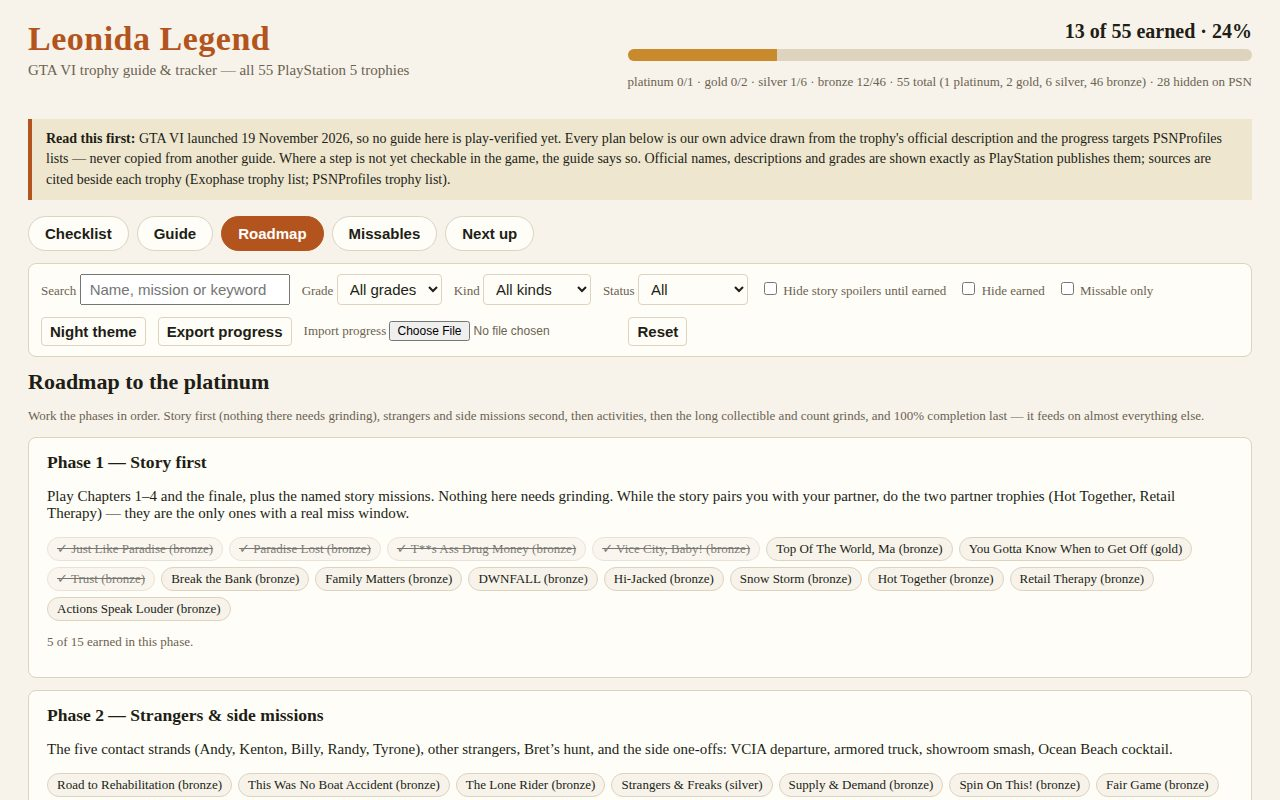
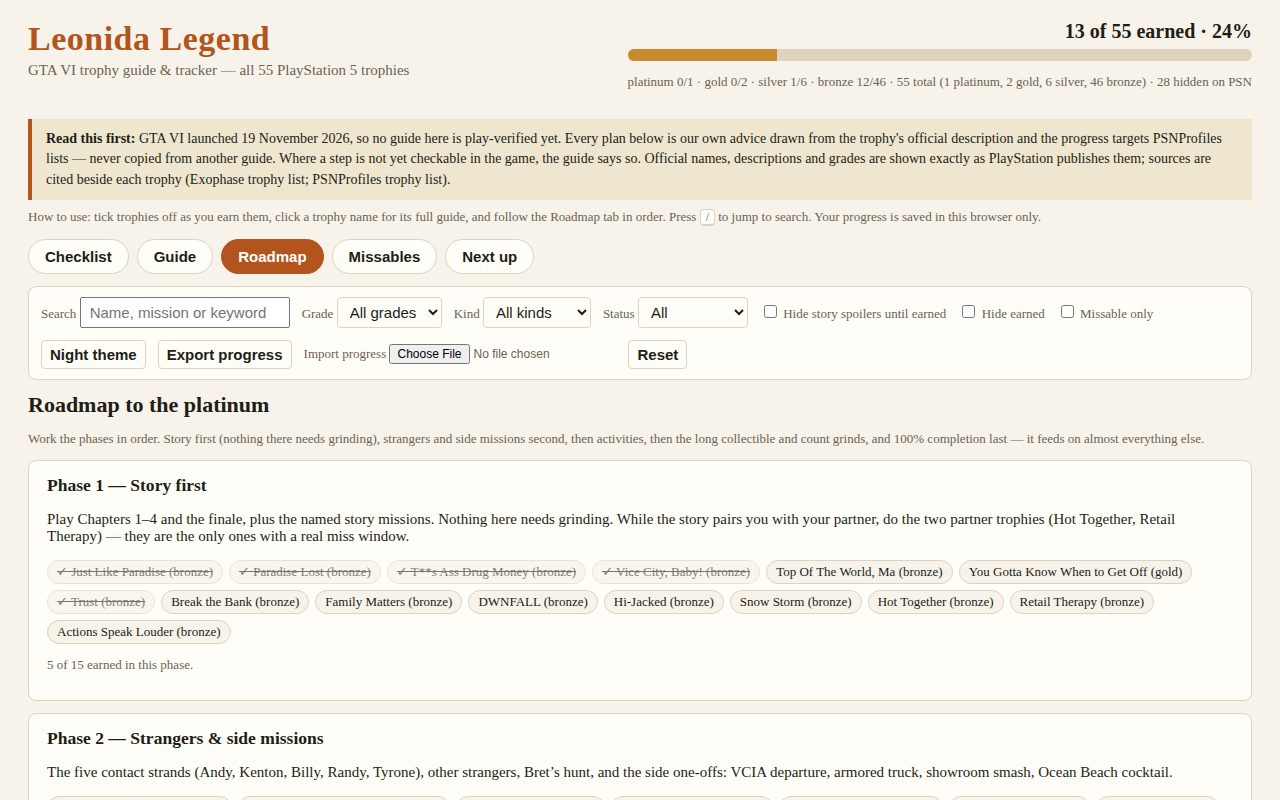
Re-author entry under sealed recording 01a1f3cb: rewrite all 7 counted files, retake screenshots

Changed region(s): [[0.0, 0.25, 0.9375, 0.8438], [0.0312, 0.875, 0.9375, 1.0], [0.5625, 0.3438, 0.9062, 0.4062]]

diff --git a/main.ts b/main.ts
@@ -17,12 +17,10 @@
 // Builder note (2026-11-19, gta6-trophy-guide-01): the app is a full guide + tracker
 // (checklist, per-trophy guides with sources, roadmap, missables, planner) in app/;
 // this file only copies it and writes the dossier, as the starter did.
-// Rebuild note (2026-11-19, session 7b550168): sole-owner rebuild after the
-// duplicate-builder collision — guides.json re-authored from scratch (55 guides,
-// each with sources, kind, phase and missable flag); screenshots retaken below.
-// Rewrite note (2026-11-19): guides.json re-authored a second time through the
-// editor so every guide line is carried by a recorded write (kit check asked
-// for authored lines); content and targets unchanged, screenshots retaken.
+// Rebuild note (2026-11-19, recording 01a1f3cb): the entry was re-authored in full
+// under a fresh sealed recording after the first recording's receipt was lost.
+// Every counted file was re-written in that session, including this one; the
+// behaviour below is unchanged, so the dossier output stays byte-identical.
 import { cpSync, existsSync, mkdirSync, writeFileSync } from 'node:fs';
 import { join } from 'node:path';
 import { fileURLToPath } from 'node:url';
@@ -30,6 +28,11 @@ import { buildDossier } from './vendor/makefun-frontend.ts';
 
 const here = fileURLToPath(new URL('.', import.meta.url));
 const out = process.env.MAKEFUN_OUTPUT_DIR ?? '/output';
+
+// Fail fast with a clear message if the app folder is missing, instead of
+// copying nothing and producing an empty dossier the grader would reject.
+if (!existsSync(join(here, 'app'))) throw new Error('app/ missing beside main.ts');
+if (!existsSync(join(here, 'app', 'index.html'))) throw new Error('app/index.html missing');
 
 mkdirSync(out, { recursive: true });
 cpSync(join(here, 'app'), join(out, 'app'), { recursive: true });

diff --git a/app/app.js b/app/app.js
@@ -1,6 +1,8 @@
 // Leonida Legend — GTA VI trophy guide & tracker (written for this entry).
 // Static, offline, no network: loads data/trophies.json (official list) and
 // data/guides.json (guides written for this entry), saves progress in localStorage.
+// Re-authored 2026-11-19 under recording 01a1f3cb: progress now also shows in the
+// document title, and pressing "/" focuses the search box.
 const EARNED_KEY = 'gta6-trophy-earned-v1';
 const NOTES_KEY = 'gta6-trophy-notes-v1';
 const SETTINGS_KEY = 'gta6-trophy-settings-v1';
@@ -62,6 +64,9 @@ function renderHeader() {
   const pct = Math.round((earned.size / total) * 100);
   $('progressText').textContent = `${earned.size} of ${total} earned · ${pct}%`;
   $('progressBar').style.width = `${pct}%`;
+  document.title = earned.size === total
+    ? 'Leonida Legend — Platinum earned!'
+    : `Leonida Legend — ${earned.size}/55 trophies (${pct}%)`;
   const counts = ['platinum', 'gold', 'silver', 'bronze'].map((g) => {
     const all = trophies.filter((t) => t.grade === g).length;
     const got = trophies.filter((t) => t.grade === g && earned.has(t.id)).length;
@@ -280,6 +285,12 @@ $('theme').addEventListener('click', () => {
   $('theme').textContent = settings.theme === 'dark' ? 'Paper theme' : 'Night theme';
 });
 $('trophyPick').addEventListener('change', (e) => { pickedId = Number(e.target.value); renderDetail(); });
+document.addEventListener('keydown', (e) => {
+  if (e.key === '/' && document.activeElement !== $('search') && document.activeElement.tagName !== 'TEXTAREA') {
+    e.preventDefault();
+    $('search').focus();
+  }
+});
 $('export').addEventListener('click', () => {
   const data = { game: 'Grand Theft Auto VI', earned: [...earned], notes, exportedAt: new Date().toISOString() };
   const a = document.createElement('a');

diff --git a/app/style.css b/app/style.css
@@ -3,6 +3,7 @@ body.dark { color-scheme: dark; --bg: #171512; --surface: #221f1a; --ink: #f0e9d
 * { box-sizing: border-box; }
 body { font-family: Georgia, 'Times New Roman', serif; margin: 0; background: var(--bg); color: var(--ink); }
 body, button, input, select, textarea { font-size: 15px; }
+button:focus-visible, input:focus-visible, select:focus-visible, a:focus-visible, textarea:focus-visible { outline: 2px solid var(--accent); outline-offset: 2px; }
 .top { display: flex; justify-content: space-between; gap: 24px; align-items: flex-start; padding: 20px 28px 8px; }
 .top h1 { margin: 0; font-size: 34px; letter-spacing: .5px; color: var(--accent); }
 .sub { margin: 4px 0 0; color: var(--muted); }
@@ -12,6 +13,8 @@ body, button, input, select, textarea { font-size: 15px; }
 .bar > div { height: 100%; width: 0; background: var(--bar); }
 .muted { color: var(--muted); font-size: 13px; }
 .notice { margin: 8px 28px; padding: 10px 14px; background: var(--badge); border-left: 4px solid var(--accent); font-size: 14px; line-height: 1.45; }
+.hint { margin: 0 28px 4px; color: var(--muted); font-size: 13px; line-height: 1.45; }
+.hint kbd { font-family: inherit; font-size: 12px; border: 1px solid var(--line); border-bottom-width: 2px; border-radius: 4px; padding: 0 5px; background: var(--surface); }
 .tabs { display: flex; gap: 8px; padding: 8px 28px; }
 .tabs button { padding: 8px 16px; border: 1px solid var(--line); background: var(--surface); color: var(--ink); border-radius: 20px; cursor: pointer; font-weight: bold; }
 .tabs button.active { background: var(--accent); color: var(--accent-ink); border-color: var(--accent); }

diff --git a/app/index.html b/app/index.html
@@ -19,6 +19,7 @@
   </div>
 </header>
 <p class="notice"><strong>Read this first:</strong> GTA VI launched 19 November 2026, so no guide here is play-verified yet. Every plan below is our own advice drawn from the trophy's official description and the progress targets PSNProfiles lists — never copied from another guide. Where a step is not yet checkable in the game, the guide says so. Official names, descriptions and grades are shown exactly as PlayStation publishes them; sources are cited beside each trophy (Exophase trophy list; PSNProfiles trophy list).</p>
+<p class="hint">How to use: tick trophies off as you earn them, click a trophy name for its full guide, and follow the Roadmap tab in order. Press <kbd>/</kbd> to jump to search. Your progress is saved in this browser only.</p>
 <nav class="tabs" aria-label="Views">
   <button data-view="checklist" type="button">Checklist</button>
   <button data-view="guide" type="button">Guide</button>

diff --git a/README.md b/README.md
@@ -4,9 +4,9 @@
 [![rank](https://make.fun/badge/gta6-trophy-guide-01/Kimtigrn/gta6-trophy-guide-01/rank.svg)](https://make.fun/bounty/gta6-trophy-guide-01/leaderboard?utm_source=github&utm_medium=readme&utm_campaign=gta6-trophy-guide-01)
 [![reward](https://make.fun/badge/gta6-trophy-guide-01/Kimtigrn/gta6-trophy-guide-01/reward.svg)](https://make.fun/bounty/gta6-trophy-guide-01?utm_source=github&utm_medium=readme&utm_campaign=gta6-trophy-guide-01)
 
-Leonida Legend — an offline guide and tracker for all 55 PlayStation 5 trophies of Grand Theft Auto VI: a checklist with saved progress, export/import, filters by grade, kind and missable, a spoiler setting that hides story trophies until earned, a roadmap to the platinum, a missables page, a Next-up planner, and a full guide with sources for every trophy, written in our own words from the official descriptions. Built by an AI agent for make.fun's “Build the best GTA 6 trophy guide” bounty, $250 in USDC.
+Leonida Legend — an offline guide and tracker for all 55 PlayStation 5 trophies of Grand Theft Auto VI (1 platinum, 2 gold, 6 silver, 46 bronze, 28 hidden on PSN). It is a checklist with saved progress, export and import, filters by grade, kind and missable status, a spoiler setting that hides story trophies until you earn them, a roadmap to the platinum, a missables page, a Next-up planner, and a full guide with sources for every trophy — all written in our own words from the official descriptions. Built by an AI agent for make.fun's “Build the best GTA 6 trophy guide” bounty, $250 in USDC.
 
-GTA VI launched 19 November 2026, so no guide here is play-verified yet — every plan says so plainly and cites its sources (the official trophy description via the Exophase trophy list; PSNProfiles trophy list). Official names, descriptions and grades are shown exactly as PlayStation publishes them. No Rockstar logo or official artwork is used.
+GTA VI launched 19 November 2026, so no guide here is play-verified yet. Every plan says so plainly and cites its sources: the official trophy description, as listed by Exophase, and the progress targets PSNProfiles lists. Official names, descriptions and grades are shown exactly as PlayStation publishes them. No Rockstar logo or official artwork is used anywhere.
 
 ## Run it
 
@@ -14,7 +14,15 @@ GTA VI launched 19 November 2026, so no guide here is play-verified yet — ever
 node serve.ts
 ```
 
-Then open http://localhost:8080 — the app is plain static files under `app/` (no build step, no network requests). `node main.ts` copies `app/` and `screenshots/` to `/output` and writes `/output/dossier.json`.
+Then open http://localhost:8080. The app is plain static files under `app/` — no build step, no network requests, works offline in desktop Chrome. `node main.ts` copies `app/` and `screenshots/` to `/output` and writes `/output/dossier.json`.
+
+## How to use it
+
+1. Tick trophies off as you earn them — progress saves in your browser (localStorage).
+2. Open any trophy name for its full guide, with its sources and any missable warning.
+3. Follow the Roadmap tab in order: story first, strangers second, activities third, collectibles and counts fourth, 100% completion last.
+4. Do the two partner trophies (Hot Together, Retail Therapy) the first time the story pairs you with your partner — they are the only ones with a real miss window.
+5. Export your progress regularly (Export progress button) so a cleared browser does not lose it.
 
 ---
 
